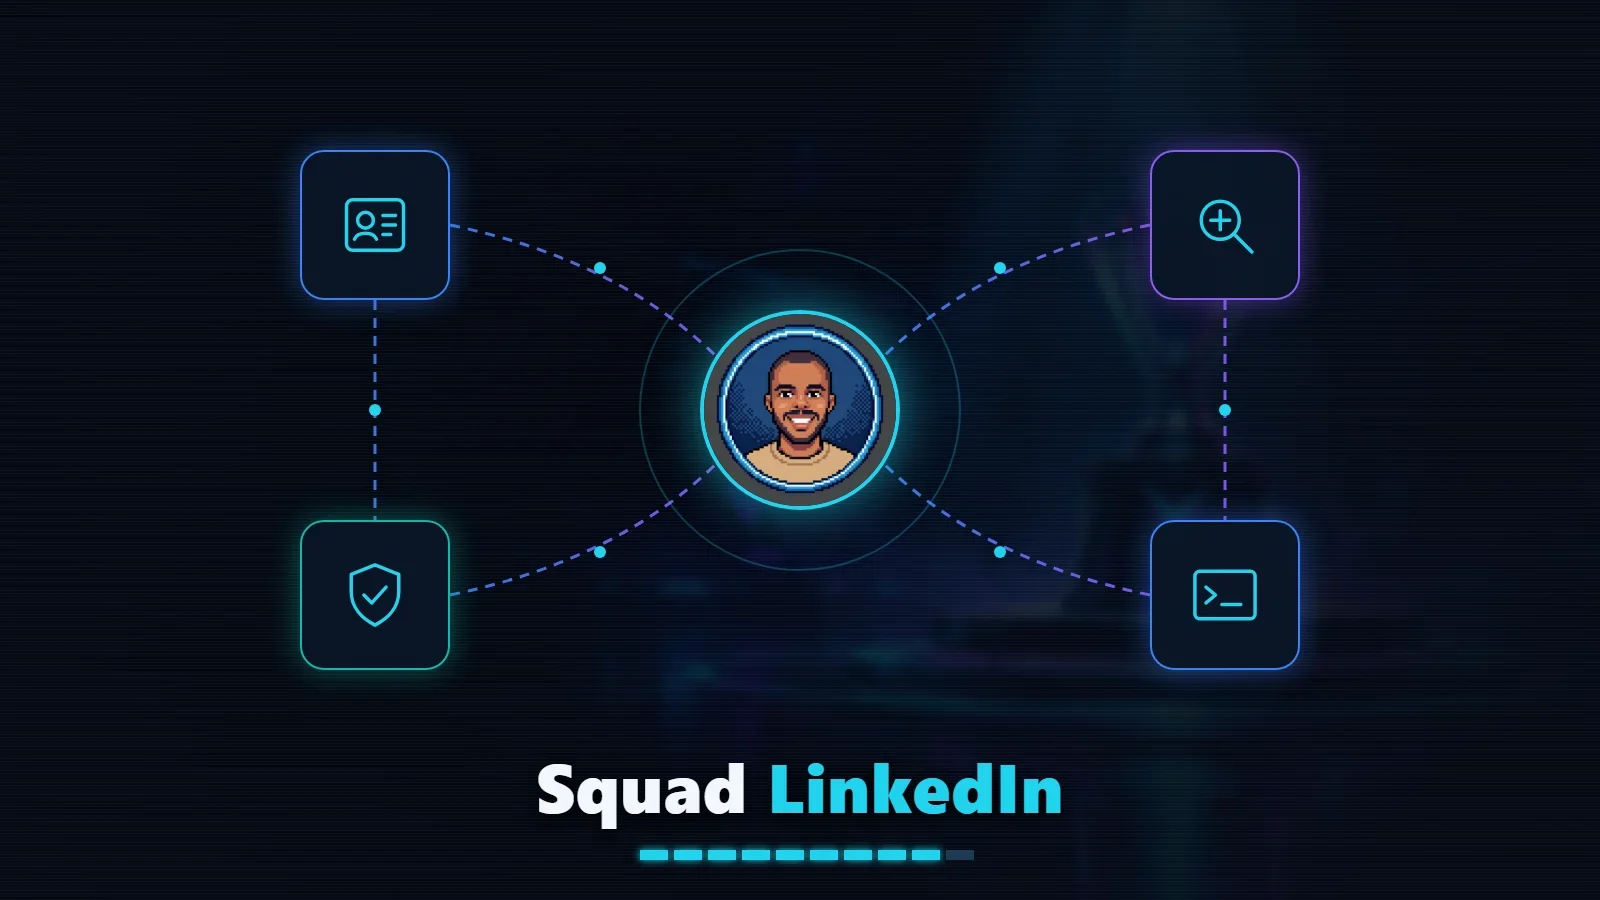
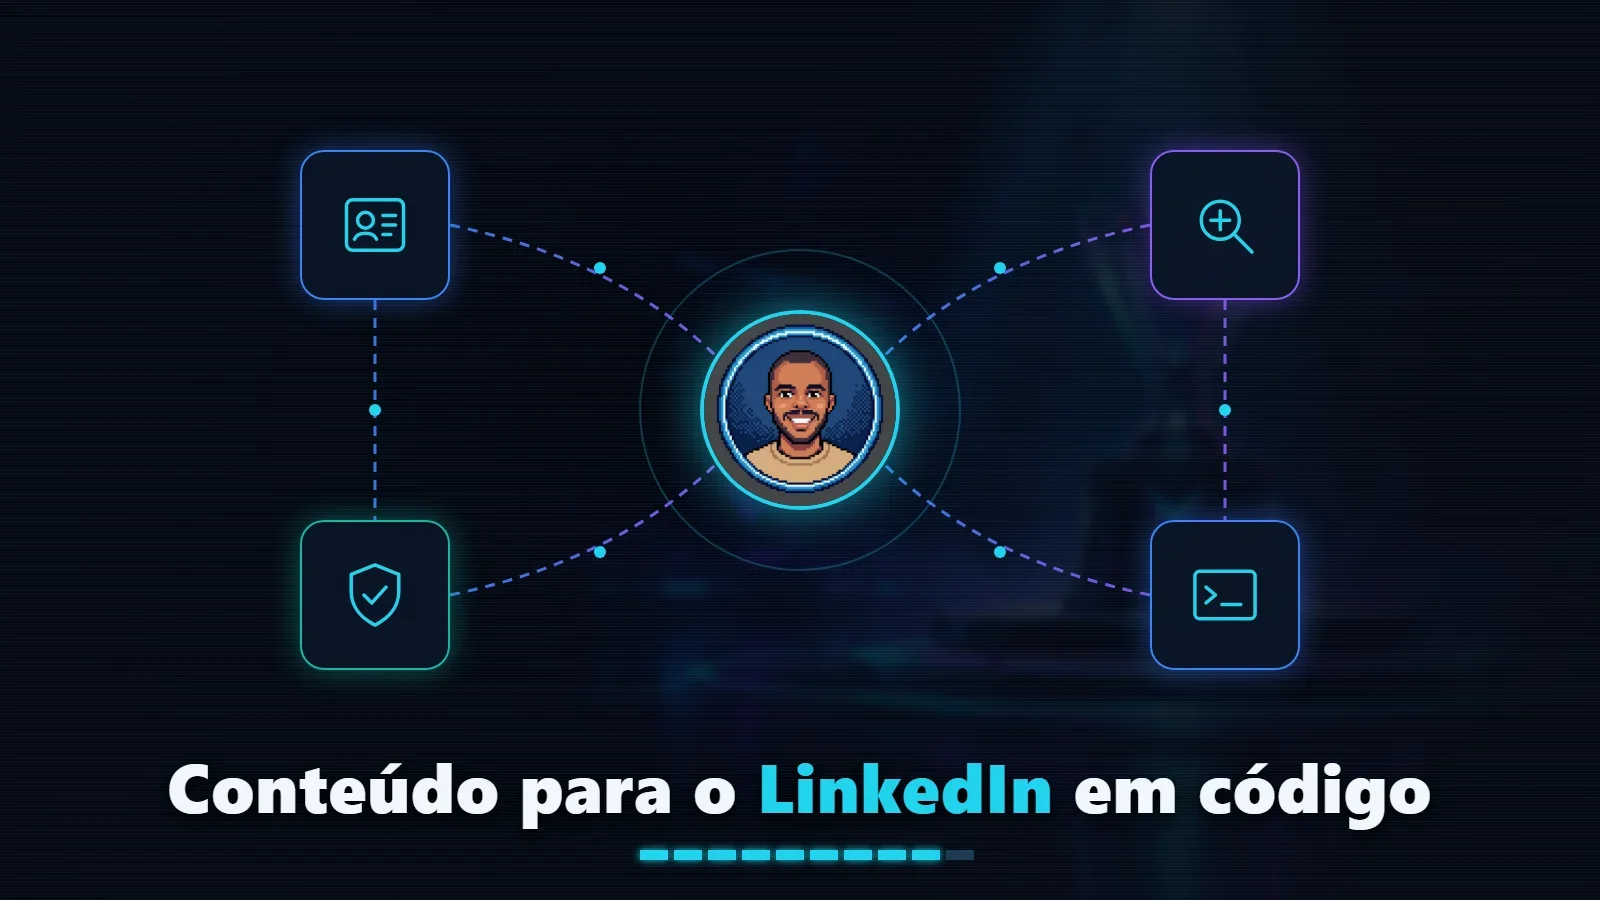
Atualiza a capa do case de conteúdo para o LinkedIn
Claude-Session: https://claude.ai/code/session_011uBmJFiDitgb1Y7S7euDR4

Changed region(s): [[0.0938, 0.84, 0.9062, 0.9333]]

diff --git a/index.html b/index.html
@@ -56,7 +56,7 @@
                 "name": "Daniel Souza | Analista de Dados Sênior, CRM e Marketing Analytics",
                 "inLanguage": "pt-BR",
                 "isPartOf": { "@id": "https://danielsouza-data.github.io/#site" },
-                "dateModified": "2026-11-13T12:33:09-03:00",
+                "dateModified": "2026-11-13T12:37:49-03:00",
                 "mainEntity": { "@id": "https://danielsouza-data.github.io/#daniel" }
             },
             {
@@ -359,7 +359,7 @@
                     <p>Perfil, posts e artes produzidos com agentes de IA, 2026. <a href="https://www.linkedin.com/in/danielsouza-data/">Meu LinkedIn</a></p>
                 </header>
 
-                <img class="caso__capa" src="assets/img/projetos/conteudo-linkedin.webp" width="1600" height="900" alt="Ilustração em neon sobre fundo escuro com o avatar 8-bit do Daniel no centro, ligado por linhas tracejadas a quatro ícones que representam os agentes de IA do projeto." loading="lazy" decoding="async">
+                <img class="caso__capa" src="assets/img/projetos/conteudo-linkedin.webp" width="1600" height="900" alt="Ilustração em neon sobre fundo escuro com o avatar 8-bit do Daniel no centro, ligado por linhas tracejadas a quatro ícones que representam os agentes de IA do projeto, com o título Conteúdo para o LinkedIn em código." loading="lazy" decoding="async">
 
                 <ol class="fluxo" aria-label="Caminho de um post">
                     <li data-tipo="fonte"><strong>Ideia</strong><span>Uma ideia por peça</span></li>
